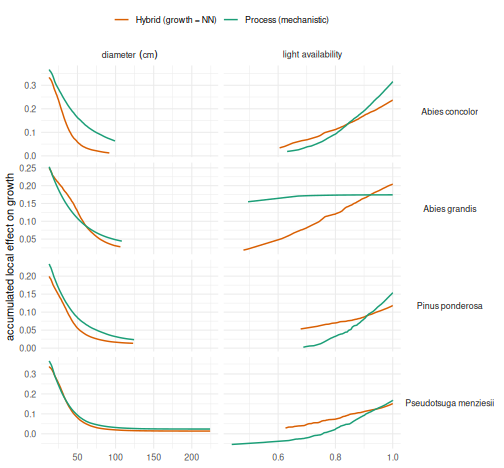
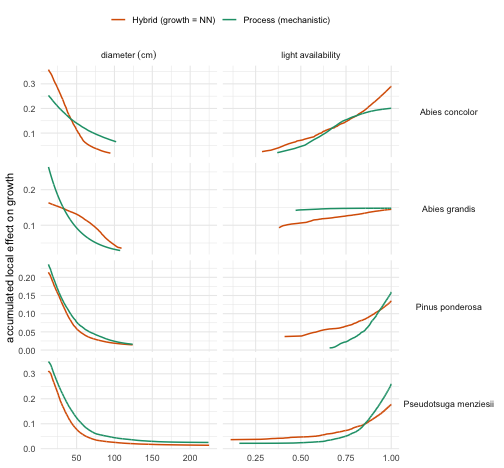
Vignettes D and E re-knitted on the deduplicated fia_env_dt / fia_env_test
Knitted with vignettes/build.R against this branch's FINN (installed into a
temporary library, not the default one), UTF-8 locale; .Rmd.orig unchanged.
What changed and why:
- D-featimp-plot: feature_importance() now permutes over distinct env rows.
- Every fit in D and E moved: the env_autoscale sd over 600 instead of 2400 rows
  is 0.063 % larger (n - 1 denominator), which the seeded training amplifies.
  D holdout Spearman, hybrid: dbh 0.74 -> 0.73, ba 0.73 -> 0.80, trees 0.70 -> 0.77,
  growth 0.55 -> 0.53, mortality 0.01 -> 0.02, regeneration 0.22 -> 0.25;
  mechanistic growth 0.56 -> 0.57, mortality 0.06 -> 0.10.
  E AUC, holdout: hybrid 0.578 -> 0.570, mechanistic 0.537 -> 0.531; train:
  hybrid 0.650 -> 0.633, mechanistic 0.625 -> 0.637. The niche/parameter tables
  and the ALE, convergence and assessment figures change accordingly.
- D-plot-env / D-plot-observations: the same data, now without the fourfold
  overplotted env rows; alt-text attributes dropped by the current knitr.
NEWS: the bundled-data entry now says the scaling constants move by 0.063 %.

diff --git a/NEWS.md b/NEWS.md
@@ -333,7 +333,10 @@ someone who was affected.
   (600 rows each). They repeated every row four times, once per patch of the
   source plot, all identical, so every environment array built from them is
   unchanged (`dev/make_extdata.R` now deduplicates; the two `.rda` files were
-  deduplicated in place).
+  deduplicated in place). The `env_autoscale` constants do move: the standard
+  deviation (n - 1 denominator) over 600 instead of 2400 rows is 0.063 % larger,
+  and a seeded fit on the z-scaled climate amplifies that, so the re-knitted
+  vignettes D and E report slightly different fits.
 
 * `feature_importance()` permutes over distinct `env` rows. On an `env` with
   repeated site-year rows the copies received different permuted values, of
